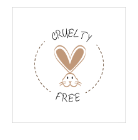
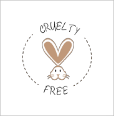
image added

diff --git a/src/data.js b/src/data.js
@@ -19,15 +19,15 @@ import banner2 from "./assets/Banner Slide_2.png";
 import banner3 from "./assets/Banner Slide_3.png";
 import banner4 from "./assets/Banner Slide_4.png";
 
-import img1 from "./assets/Component 67.png";
-import img2 from "./assets/Component 67.png";
-import img3 from "./assets/Component 67.png";
-import img4 from "./assets/Component 67.png";
+import img1 from "./assets/Component 62.png";
+import img2 from "./assets/Component 64.png";
+import img3 from "./assets/Component 65.png";
+import img4 from "./assets/Component 66.png";
 import img5 from "./assets/Component 67.png";
-import img6 from "./assets/Component 67.png";
-import img7 from "./assets/Component 67.png";
-import img8 from "./assets/Component 67.png";
-import img9 from "./assets/Component 67.png";
+import img6 from "./assets/Component 68.png";
+import img7 from "./assets/Component 69.png";
+import img8 from "./assets/Component 70.png";
+import img9 from "./assets/Component 71.png";
 import buttonImg1 from "./assets/Component 14 – 6.png";
 import buttonImg2 from "./assets/Component 15 – 86.png";
 import buttonImg3 from "./assets/Component 16 – 10.png";

diff --git a/src/Components/Environment.jsx b/src/Components/Environment.jsx
@@ -11,7 +11,7 @@ const Environment = () => {
     speed: 1000,
     slidesToShow: 3, // Show 4 items at a time
     slidesToScroll: 3,
-    autoplay: false,
+    autoplay: true,
     autoplaySpeed: 2000,
     arrows: false, // Add arrows for navigation
   };
